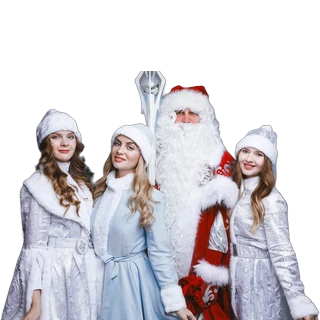
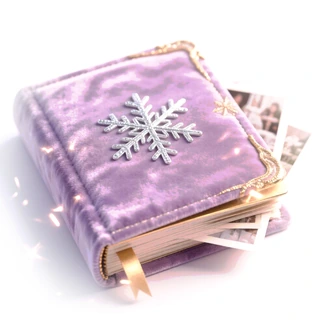
Add files via upload

diff --git a/data/content.js b/data/content.js
@@ -1,2 +1,2 @@
 // Копия content.json — чтобы сайт открывался и без сервера. Админка обновляет её сама.
-window.DM_SEED = {"rev":"20261024b","season":{"from":"25 декабря","to":"2 января","note":"Для постоянных клиентов действуют скидки."},"hero":{"title":"Сибирская служба Деда Мороза","lead":"Подарите себе и своим детям сказку","photo":"img/hero-sneg.jpg?v=2","photo_pos":"","round":"img/sneg-gold.jpg","sticker":"Только наши актёры"},"facts":[{"b":"20 лет","s":"работаем с 2006 года"},{"b":"30 минут","s":"программа с песнями, играми и хороводом"},{"b":"Мы настоящие","s":"безупречные образы, продуманные до мелочей"}],"about":{"title":"Добрая семейная традиция","text":"Год за годом возвращаемся в любимые семьи и становимся частью их новогодней истории.","photo":"img/cut-ded.webp","photo_pos":"","badge":"с 2006 года","pluses":[{"title":"Мы красивые","text":"Молодые и очаровательные Снегурочки, харизматичные и весёлые Дед Морозы. Костюмы сшиты на заказ из дорогих материалов, у Деда Мороза настоящие валенки и волшебный посох, у Снегурочки — белые сапожки."},{"title":"Мы без вредных привычек","text":"Ответственный подход к работе, отличное настроение и энергия, которой хватает на весь праздник."},{"title":"Каждый год новая программа","text":"Душевные беседы, добрые традиции, музыкальные и подвижные игры с реквизитом."},{"title":"Команда с историей","text":"Почти все наши артисты с нами уже более 10 лет (а кто-то и дольше). Один и тот же Дедушка Мороз и Снегурочка приходят к деткам из года в год. Так вера в чудо живёт дольше, а герои становятся по-настоящему родными."},{"title":"Мы не подводим","text":"В назначенный день и время к вам в дверь постучатся сказочные герои."}]},"prices":{"intro":"Поздравление длится 30 минут, по желанию его можно сократить или увеличить. Количество детей не ограничено.","rows":[{"dates":"25, 28 и 29 декабря","price":"4500","slots":[]},{"dates":"26–27 декабря","price":"5000","slots":[]},{"dates":"30 декабря","price":"5000","slots":[]},{"dates":"31 декабря","price":"","slots":[{"time":"до 13:00","price":"5500"},{"time":"с 13:00 до 18:00","price":"6500"},{"time":"с 18:00 до 01:00","price":"7500"}]},{"dates":"1 января","price":"5000","slots":[]},{"dates":"2 января","price":"4500","slots":[]}],"incl_title":"Что входит в поздравление","incl":["Дед Мороз и Снегурочка в нарядных костюмах","30 минут авторской программы по возрасту детей","Песни, танцы, хоровод вокруг ёлки","Игры, загадки, шуточные конкурсы","Стихи для Дедушки и вручение ваших подарков","Внимание и взрослым — не только детям"],"incl_photo":"img/n-1.jpg","incl_pos":"60% 40%","prepay":"Бронирование по предоплате 500 ₽"},"how":{"title":"30 минут настоящей сказки","steps":[{"title":"Время для душевного общения","text":"Дедушка поговорит с ребёнком, обсудит события прошедшего года (Дедушка удивит ребенка тем, что он знает все. Ведь родители заранее готовят для нас рассказ) и похвалит за успехи. Ведь настоящее волшебство начинается с внимания к каждому."},{"title":"Время веселиться!","text":"Музыкальные и подвижные игры, весёлые задания с реквизитом и творческие сюрпризы - скучать не придётся ни детям, ни взрослым."},{"title":"Время талантов","text":"Стихи, песни, танцы и другие маленькие достижения - Дед Мороз с удовольствием посмотрит, чем ребёнок хочет его удивить и порадовать."},{"title":"Письмо из мешка!","text":"Дедушка достанет из мешка письмо, которое ребёнок писал ему, и докажет: послание действительно дошло до самого волшебника!"},{"title":"Подарок от Дедушки","text":"Дед Мороз достанет из мешка желанные подарки, которые приготовили родители, и вручит их маленькому герою праздника."},{"title":"Обещание Деду Морозу","text":"Перед прощанием Дедушка возьмёт обещание весь год хорошо себя вести и слушаться родителей. И, конечно, останется время на памятные фотографии!"}],"tips":[{"title":"Чистота и комфорт","text":"Дедушка снимает галоши с валенок перед входом, а Снегурочка использует на улице защитные чехлы на обувь. Можно дополнительно постелить коврик - мы заботимся о чистоте вашего дома."},{"title":"Не выдавайте секрет!","text":"Дед Мороз приезжает на обычной машине и паркуется у подъезда. Лучше ребёнку не ждать гостей у окна. Мы хотим сохранить сказку!"},{"title":"Дедушка придет впервые?","text":"Расскажите, кто такой Дед Мороз и что будет происходить. Если ребёнок стесняется, первой может зайти Снегурочка, а затем они вместе позовут Дедушку."},{"title":"Не забудьте письмо!","text":"Незаметно положите письмо ребёнка в мешок с подарками. Когда Дедушка достанет его, вера в настоящее чудо станет ещё крепче!"},{"title":"Подарки тоже должны быть сказочными!","text":"Пожалуйста, передавайте подарки в праздничной упаковке, без пакетов маркетплейсов, штрихкодов и ценников. Позаботьтесь, чтобы даже упаковка поддерживала атмосферу новогоднего чуда!"},{"title":"Оплата - только без маленьких зрителей.","text":"Не передавайте деньги Деду Морозу при ребенке, даже если думаете, что никто не видит. Дети замечают больше, чем нам кажется. Оплатить можно заранее, когда передаете подарки или в конце, выйдя провожать за дверь. Не будем разрушать магию встречи."},{"title":"Заранее расскажите нам о прошедшем годе","text":"При бронировании поделитесь успехами ребёнка, его достижениями и тем, за что его стоит похвалить. Ребенок точно удивится, откуда Дедушка все знает!"},{"title":"Участвуйте в сказке вместе","text":"Поддерживайте ребёнка, играйте вместе с ним и помогайте преодолеть стеснение. Ваше участие сделает встречу ещё теплее и радостнее!"}],"tips_title":"Советы родителям: чтобы волшебство удалось"},"heroes":{"title":"Как с картинки","text":"Только наши герои на фотографиях.","photos":[{"src":"img/n-2.jpg","alt":"Снегурочка у голубой ёлки с подарками","pos":"","title":"","text":""},{"src":"img/n-3.jpg","alt":"Снежинка в руках Снегурочки","pos":"","title":"","text":""},{"src":"img/trio.jpg","alt":"Дед Мороз и три Снегурочки","pos":"","title":"Костюмы высокого уровня.","text":"Мы не экономим на впечатлении. Наши костюмы -  это качественные материалы, дорогой внешний вид и внимание к каждой детали."},{"src":"img/sneg-gold.jpg","alt":"Снегурочка у ёлки","pos":"","title":"","text":""},{"src":"img/ded-snow.jpg","alt":"Дед Мороз в снегу","pos":"","title":"Образ Деда Мороза","text":"Богатая вышивка, роскошный мех, нарядные шапки и величественные посохи. Каждая деталь подчёркивает образ настоящего русского Деда Мороза."},{"src":"img/sneg-ball.jpg","alt":"Две Снегурочки с ёлочным шаром","pos":"","title":"Снегурочки из сказки","text":"Молодые, красивые, нежные - наши Снегурочки словно сошли со страниц зимней сказки."},{"src":"img/pair-tree.jpg","alt":"Дед Мороз и Снегурочка у ёлки","pos":"","title":"Классическая красная шуба","text":"Дедушку именно в таком образе знают и ждут дети!"},{"src":"img/sneg-white.jpg","alt":"Снегурочка в белом","pos":"","title":"Образ Снегурочки","text":"Изысканные платья, меховая отделка, красивые детали, которые создают по-настоящему сказочный образ."},{"src":"img/ded-home.jpg","alt":"Дед Мороз","pos":"","title":"Настоящий Дед Мороз","text":"Не юный аниматор в бороде, а взрослый, солидный мужчина с харизмой и добрым взглядом. Многие наши Деды Морозы старше 50 лет."}]},"reviews":{"title":"Нас зовут из года в год","items":[{"text":"Доброе утро дорогие Волшебники!))) Вчера к нашим уже не очень маленьким деткам в шестой раз приходили самые добрые, самые настоящие и самые волшебные Дедушка Мороз и Снегурочка! Спасибо огромное вашей команде за праздник и радость, которые вы дарите и детям и взрослым. Ваши Дедушки Морозы и Снегурочки самые лучшие, самые красивые и веселые! Все были в восторге от вечера! А дети, благодаря вашим стараниям еще долго будут верить и ждать Деда Мороза и Снегурочку в гости! Так что милости просим лет так до 18 точно!)))","author":""},{"text":"Большое спасибо Вам от нашей семьи. Из года в год вы радуете наших детишек и нас ❤ Каждый год разная программа и костюмы 🔥 4 год проводим с Вами ,это уже традиция 🥰 Ох как мы готовимся к вашему приходу, наряды, прически и как тяжело с Вами раставаться на год 🥲 … Ваша подготовка, любовь к детям, а не просто работа. Мы Вас очень любим и ждём через год ❤","author":"Ваши Тимофей и Ульяна"},{"text":"Добрый вечер! Спасибо Вам за чудесное поздравление и прекрасного Деда Мороза со Снегурочкой (Машеньку). Какой костюм у Деда мороза шикарный. Парень мой очень рад 🥳🎄!! С Наступающим Новым годом! Надеемся на новую встречу в Новом году 😊 спасибо и всех благ!!!","author":""},{"text":"Спасибо огромное за поздравление! Дед Мороз и Снегурочка просто супер 🔥 костюмы очень красивые, программа отличная, подход к детям, настроение 👍👍👍 мы очень довольны и рады что выбрали именно Вас!!!","author":""},{"text":"Спасибо огромное за праздник!!! Вы - лучшие! И дети, и родители счастливы! С наступающим Новым годом! Будем ждать через год!","author":""}]},"faq":{"items":[{"q":"Сколько длится поздравление?","a":"Стандартная программа — 30 минут. По вашему желанию её можно сократить или увеличить, длительность оговаривается заранее."},{"q":"Сколько детей может быть на празднике?","a":"Мы не ограничиваем количество гостей. Но нам важно, чтобы каждый ребёнок почувствовал себя участником сказки, успел пообщаться с Дедушкой и проявить себя. Наша программа рассчитана на 30 минут. Чем больше детей - тем меньше времени остается на внимание к каждому."},{"q":"Что, если малыш испугается Деда Мороза?","a":"Артисты всегда найдут слова, чтобы через несколько минут ребёнок заулыбался. А заранее расскажите малышу, кто такой Дед Мороз, где он живёт и как будет одет — тогда он встретит его как старого знакомого."},{"q":"Кто готовит подарки?","a":"Подарки готовите вы. Незаметно передайте их Деду Морозу. Если детей несколько - подпишите имена на обратной стороне подарков."},{"q":"Нужна предоплата?","a":"Бронирование времени осуществляется по предоплате 500р. Остальную сумму вы оплачиваете Дедушке Морозу и Снегурочке в день поздравления."},{"q":"Когда вы приходите?","a":"Каждый день с 25 декабря по 2 января. 31 декабря разбирают первым, поэтому на него лучше договориться заранее."}],"photo":"img/ded-snow.jpg"},"contacts":{"phone_city":"34-64-09","phone_mobile":"8-904-074-64-09","phone_boss":"8-960-990-00-44","boss_name":"Анастасия","whatsapp":"8-904-074-64-09","telegram":"","vk":"dedmoroz55omsk","email":"sibdedmoroz55@gmail.com","office":"пр-кт Комарова, 21/2, офис 13","show_office":false,"max":""}};
+window.DM_SEED = {"rev":"20261024c","season":{"from":"25 декабря","to":"2 января","note":"Для постоянных клиентов действуют скидки."},"hero":{"title":"Сибирская служба Деда Мороза","lead":"Подарите себе и своим детям сказку","photo":"img/hero-sneg.jpg?v=2","photo_pos":"","round":"img/sneg-gold.jpg","sticker":"Только наши актёры"},"facts":[{"b":"20 лет","s":"работаем с 2006 года"},{"b":"30 минут","s":"программа с песнями, играми и хороводом"},{"b":"Мы настоящие","s":"безупречные образы, продуманные до мелочей"}],"about":{"title":"Добрая семейная традиция","text":"Год за годом возвращаемся в любимые семьи и становимся частью их новогодней истории.","photo":"img/cut-ded.webp","photo_pos":"","badge":"с 2006 года","pluses":[{"title":"Мы красивые","text":"Молодые и очаровательные Снегурочки, харизматичные и весёлые Дед Морозы. Костюмы сшиты на заказ из дорогих материалов, у Деда Мороза настоящие валенки и волшебный посох, у Снегурочки — белые сапожки."},{"title":"Мы без вредных привычек","text":"Ответственный подход к работе, отличное настроение и энергия, которой хватает на весь праздник."},{"title":"Каждый год новая программа","text":"Душевные беседы, добрые традиции, музыкальные и подвижные игры с реквизитом."},{"title":"Команда с историей","text":"Почти все наши артисты с нами уже более 10 лет (а кто-то и дольше). Один и тот же Дедушка Мороз и Снегурочка приходят к деткам из года в год. Так вера в чудо живёт дольше, а герои становятся по-настоящему родными."},{"title":"Мы не подводим","text":"В назначенный день и время к вам в дверь постучатся сказочные герои."}]},"prices":{"intro":"Поздравление длится 30 минут, по желанию его можно сократить или увеличить. Количество детей не ограничено.","rows":[{"dates":"25, 28 и 29 декабря","price":"4500","slots":[]},{"dates":"26–27 декабря","price":"5000","slots":[]},{"dates":"30 декабря","price":"5000","slots":[]},{"dates":"31 декабря","price":"","slots":[{"time":"до 13:00","price":"5500"},{"time":"с 13:00 до 18:00","price":"6500"},{"time":"с 18:00 до 01:00","price":"7500"}]},{"dates":"1 января","price":"5000","slots":[]},{"dates":"2 января","price":"4500","slots":[]}],"incl_title":"Что входит в поздравление","incl":["Дед Мороз и Снегурочка в нарядных костюмах","30 минут авторской программы по возрасту детей","Песни, танцы, хоровод вокруг ёлки","Игры, загадки, шуточные конкурсы","Стихи для Дедушки и вручение ваших подарков","Внимание и взрослым — не только детям"],"incl_photo":"img/n-1.jpg","incl_pos":"60% 40%","prepay":"Бронирование по предоплате 500 ₽"},"how":{"title":"30 минут настоящей сказки","steps":[{"title":"Время для душевного общения","text":"Дедушка поговорит с ребёнком, обсудит события прошедшего года (Дедушка удивит ребёнка тем, что он знает всё. Ведь родители заранее готовят для нас рассказ) и похвалит за успехи. Ведь настоящее волшебство начинается с внимания к каждому."},{"title":"Время веселиться!","text":"Музыкальные и подвижные игры, весёлые задания с реквизитом и творческие сюрпризы — скучать не придётся ни детям, ни взрослым."},{"title":"Время талантов","text":"Стихи, песни, танцы и другие маленькие достижения — Дед Мороз с удовольствием посмотрит, чем ребёнок хочет его удивить и порадовать."},{"title":"Письмо из мешка!","text":"Дедушка достанет из мешка письмо, которое ребёнок писал ему, и докажет: послание действительно дошло до самого волшебника!"},{"title":"Подарок от Дедушки","text":"Дед Мороз достанет из мешка желанные подарки, которые приготовили родители, и вручит их маленькому герою праздника."},{"title":"Обещание Деду Морозу","text":"Перед прощанием Дедушка возьмёт обещание весь год хорошо себя вести и слушаться родителей. И, конечно, останется время на памятные фотографии!"}],"tips":[{"title":"Чистота и комфорт","text":"Дедушка снимает галоши с валенок перед входом, а Снегурочка использует на улице защитные чехлы на обувь. Можно дополнительно постелить коврик — мы заботимся о чистоте вашего дома."},{"title":"Не выдавайте секрет!","text":"Дед Мороз приезжает на обычной машине и паркуется у подъезда. Лучше ребёнку не ждать гостей у окна. Мы хотим сохранить сказку!"},{"title":"Дедушка придёт впервые?","text":"Расскажите, кто такой Дед Мороз и что будет происходить. Если ребёнок стесняется, первой может зайти Снегурочка, а затем они вместе позовут Дедушку."},{"title":"Не забудьте письмо!","text":"Незаметно положите письмо ребёнка в мешок с подарками. Когда Дедушка достанет его, вера в настоящее чудо станет ещё крепче!"},{"title":"Подарки тоже должны быть сказочными!","text":"Пожалуйста, передавайте подарки в праздничной упаковке, без пакетов маркетплейсов, штрихкодов и ценников. Позаботьтесь, чтобы даже упаковка поддерживала атмосферу новогоднего чуда!"},{"title":"Оплата — только без маленьких зрителей","text":"Не передавайте деньги Деду Морозу при ребёнке, даже если думаете, что никто не видит. Дети замечают больше, чем нам кажется. Оплатить можно заранее, когда передаёте подарки или в конце, выйдя провожать за дверь. Не будем разрушать магию встречи."},{"title":"Заранее расскажите нам о прошедшем годе","text":"При бронировании поделитесь успехами ребёнка, его достижениями и тем, за что его стоит похвалить. Ребёнок точно удивится, откуда Дедушка всё знает!"},{"title":"Участвуйте в сказке вместе","text":"Поддерживайте ребёнка, играйте вместе с ним и помогайте преодолеть стеснение. Ваше участие сделает встречу ещё теплее и радостнее!"}],"tips_title":"Советы родителям: чтобы волшебство удалось"},"heroes":{"title":"Как с картинки","text":"Только наши герои на фотографиях.","photos":[{"src":"img/n-2.jpg","alt":"Снегурочка у голубой ёлки с подарками","pos":"","title":"","text":""},{"src":"img/n-3.jpg","alt":"Снежинка в руках Снегурочки","pos":"","title":"","text":""},{"src":"img/trio.jpg","alt":"Дед Мороз и три Снегурочки","pos":"","title":"Костюмы высокого уровня","text":"Мы не экономим на впечатлении. Наши костюмы — это качественные материалы, дорогой внешний вид и внимание к каждой детали."},{"src":"img/sneg-gold.jpg","alt":"Снегурочка у ёлки","pos":"","title":"","text":""},{"src":"img/ded-snow.jpg","alt":"Дед Мороз в снегу","pos":"","title":"Образ Деда Мороза","text":"Богатая вышивка, роскошный мех, нарядные шапки и величественные посохи. Каждая деталь подчёркивает образ настоящего русского Деда Мороза."},{"src":"img/sneg-ball.jpg","alt":"Две Снегурочки с ёлочным шаром","pos":"","title":"Снегурочки из сказки","text":"Молодые, красивые, нежные — наши Снегурочки словно сошли со страниц зимней сказки."},{"src":"img/pair-tree.jpg","alt":"Дед Мороз и Снегурочка у ёлки","pos":"","title":"Классическая красная шуба","text":"Дедушку именно в таком образе знают и ждут дети!"},{"src":"img/sneg-white.jpg","alt":"Снегурочка в белом","pos":"","title":"Образ Снегурочки","text":"Изысканные платья, меховая отделка, красивые детали, которые создают по-настоящему сказочный образ."},{"src":"img/ded-home.jpg","alt":"Дед Мороз","pos":"","title":"Настоящий Дед Мороз","text":"Не юный аниматор в бороде, а взрослый, солидный мужчина с харизмой и добрым взглядом. Многие наши Деды Морозы старше 50 лет."}]},"reviews":{"title":"Нас зовут из года в год","items":[{"text":"Доброе утро дорогие Волшебники!))) Вчера к нашим уже не очень маленьким деткам в шестой раз приходили самые добрые, самые настоящие и самые волшебные Дедушка Мороз и Снегурочка! Спасибо огромное вашей команде за праздник и радость, которые вы дарите и детям и взрослым. Ваши Дедушки Морозы и Снегурочки самые лучшие, самые красивые и веселые! Все были в восторге от вечера! А дети, благодаря вашим стараниям еще долго будут верить и ждать Деда Мороза и Снегурочку в гости! Так что милости просим лет так до 18 точно!)))","author":""},{"text":"Большое спасибо Вам от нашей семьи. Из года в год вы радуете наших детишек и нас ❤ Каждый год разная программа и костюмы 🔥 4 год проводим с Вами ,это уже традиция 🥰 Ох как мы готовимся к вашему приходу, наряды, прически и как тяжело с Вами раставаться на год 🥲 … Ваша подготовка, любовь к детям, а не просто работа. Мы Вас очень любим и ждём через год ❤","author":"Ваши Тимофей и Ульяна"},{"text":"Добрый вечер! Спасибо Вам за чудесное поздравление и прекрасного Деда Мороза со Снегурочкой (Машеньку). Какой костюм у Деда мороза шикарный. Парень мой очень рад 🥳🎄!! С Наступающим Новым годом! Надеемся на новую встречу в Новом году 😊 спасибо и всех благ!!!","author":""},{"text":"Спасибо огромное за поздравление! Дед Мороз и Снегурочка просто супер 🔥 костюмы очень красивые, программа отличная, подход к детям, настроение 👍👍👍 мы очень довольны и рады что выбрали именно Вас!!!","author":""},{"text":"Спасибо огромное за праздник!!! Вы - лучшие! И дети, и родители счастливы! С наступающим Новым годом! Будем ждать через год!","author":""}]},"faq":{"items":[{"q":"Сколько длится поздравление?","a":"Стандартная программа — 30 минут. По вашему желанию её можно сократить или увеличить, длительность оговаривается заранее."},{"q":"Сколько детей может быть на празднике?","a":"Мы не ограничиваем количество гостей. Но нам важно, чтобы каждый ребёнок почувствовал себя участником сказки, успел пообщаться с Дедушкой и проявить себя. Наша программа рассчитана на 30 минут. Чем больше детей — тем меньше времени остаётся на внимание к каждому."},{"q":"Что, если малыш испугается Деда Мороза?","a":"Артисты всегда найдут слова, чтобы через несколько минут ребёнок заулыбался. А заранее расскажите малышу, кто такой Дед Мороз, где он живёт и как будет одет — тогда он встретит его как старого знакомого."},{"q":"Кто готовит подарки?","a":"Подарки готовите вы. Незаметно передайте их Деду Морозу. Если детей несколько — подпишите имена на обратной стороне подарков."},{"q":"Нужна предоплата?","a":"Бронирование времени осуществляется по предоплате 500 ₽. Остальную сумму вы оплачиваете Дедушке Морозу и Снегурочке в день поздравления."},{"q":"Когда вы приходите?","a":"Каждый день с 25 декабря по 2 января. 31 декабря разбирают первым, поэтому на него лучше договориться заранее."}],"photo":"img/ded-snow.jpg"},"contacts":{"phone_city":"34-64-09","phone_mobile":"8-904-074-64-09","phone_boss":"8-960-990-00-44","boss_name":"Анастасия","whatsapp":"8-904-074-64-09","telegram":"","vk":"dedmoroz55omsk","email":"sibdedmoroz55@gmail.com","office":"пр-кт Комарова, 21/2, офис 13","show_office":false,"max":""}};

diff --git a/index.html b/index.html
@@ -11,8 +11,8 @@
 <meta property="og:url" content="https://danielsque18.github.io/dedmoroz/">
 <meta property="og:type" content="website">
 <meta name="theme-color" content="#1c0b3f">
-<link rel="stylesheet" href="fonts/fonts.css?v=20261024b">
-<link rel="stylesheet" href="style.css?v=20261024b">
+<link rel="stylesheet" href="fonts/fonts.css?v=20261024g">
+<link rel="stylesheet" href="style.css?v=20261024g">
 <link rel="icon" href="img/logo.png" type="image/png">
 <script type="application/ld+json">{"@context":"https://schema.org","@type":"EntertainmentBusiness","name":"Сибирская служба Деда Мороза","description":"Дед Мороз и Снегурочка на дом в Омске, с 2006 года","address":{"@type":"PostalAddress","addressLocality":"Омск","streetAddress":"пр-кт Комарова, 21/2, офис 13"},"telephone":["+7 3812 34-64-09","+7 904 074-64-09"],"email":"sibdedmoroz55@gmail.com","priceRange":"4500–7500 ₽","sameAs":["https://vk.com/dedmoroz55omsk"]}</script>
 </head>
@@ -187,9 +187,9 @@
     <div>
       <h2>30 минут настоящей <em>сказки</em></h2>
       <ol class="steps">
-        <li><b>Время для душевного общения</b><p>Дедушка поговорит с ребёнком, обсудит события прошедшего года (Дедушка удивит ребенка тем, что он знает все. Ведь родители заранее готовят для нас рассказ) и похвалит за успехи. Ведь настоящее волшебство начинается с внимания к каждому.</p></li>
-        <li><b>Время веселиться!</b><p>Музыкальные и подвижные игры, весёлые задания с реквизитом и творческие сюрпризы - скучать не придётся ни детям, ни взрослым.</p></li>
-        <li><b>Время талантов</b><p>Стихи, песни, танцы и другие маленькие достижения - Дед Мороз с удовольствием посмотрит, чем ребёнок хочет его удивить и порадовать.</p></li>
+        <li><b>Время для душевного общения</b><p>Дедушка поговорит с ребёнком, обсудит события прошедшего года (Дедушка удивит ребёнка тем, что он знает всё. Ведь родители заранее готовят для нас рассказ) и похвалит за успехи. Ведь настоящее волшебство начинается с внимания к каждому.</p></li>
+        <li><b>Время веселиться!</b><p>Музыкальные и подвижные игры, весёлые задания с реквизитом и творческие сюрпризы — скучать не придётся ни детям, ни взрослым.</p></li>
+        <li><b>Время талантов</b><p>Стихи, песни, танцы и другие маленькие достижения — Дед Мороз с удовольствием посмотрит, чем ребёнок хочет его удивить и порадовать.</p></li>
         <li><b>Письмо из мешка!</b><p>Дедушка достанет из мешка письмо, которое ребёнок писал ему, и докажет: послание действительно дошло до самого волшебника!</p></li>
         <li><b>Подарок от Дедушки</b><p>Дед Мороз достанет из мешка желанные подарки, которые приготовили родители, и вручит их маленькому герою праздника.</p></li>
         <li><b>Обещание Деду Морозу</b><p>Перед прощанием Дедушка возьмёт обещание весь год хорошо себя вести и слушаться родителей. И, конечно, останется время на памятные фотографии!</p></li>
@@ -197,13 +197,13 @@
       <details class="tips">
         <summary>Советы родителям: чтобы волшебство удалось</summary>
         <ol>
-          <li><b>Чистота и комфорт</b> Дедушка снимает галоши с валенок перед входом, а Снегурочка использует на улице защитные чехлы на обувь. Можно дополнительно постелить коврик - мы заботимся о чистоте вашего дома.</li>
+          <li><b>Чистота и комфорт</b> Дедушка снимает галоши с валенок перед входом, а Снегурочка использует на улице защитные чехлы на обувь. Можно дополнительно постелить коврик — мы заботимся о чистоте вашего дома.</li>
           <li><b>Не выдавайте секрет!</b> Дед Мороз приезжает на обычной машине и паркуется у подъезда. Лучше ребёнку не ждать гостей у окна. Мы хотим сохранить сказку!</li>
-          <li><b>Дедушка придет впервые?</b> Расскажите, кто такой Дед Мороз и что будет происходить. Если ребёнок стесняется, первой может зайти Снегурочка, а затем они вместе позовут Дедушку.</li>
+          <li><b>Дедушка придёт впервые?</b> Расскажите, кто такой Дед Мороз и что будет происходить. Если ребёнок стесняется, первой может зайти Снегурочка, а затем они вместе позовут Дедушку.</li>
           <li><b>Не забудьте письмо!</b> Незаметно положите письмо ребёнка в мешок с подарками. Когда Дедушка достанет его, вера в настоящее чудо станет ещё крепче!</li>
           <li><b>Подарки тоже должны быть сказочными!</b> Пожалуйста, передавайте подарки в праздничной упаковке, без пакетов маркетплейсов, штрихкодов и ценников. Позаботьтесь, чтобы даже упаковка поддерживала атмосферу новогоднего чуда!</li>
-          <li><b>Оплата - только без маленьких зрителей.</b> Не передавайте деньги Деду Морозу при ребенке, даже если думаете, что никто не видит. Дети замечают больше, чем нам кажется. Оплатить можно заранее, когда передаете подарки или в конце, выйдя провожать за дверь. Не будем разрушать магию встречи.</li>
-          <li><b>Заранее расскажите нам о прошедшем годе</b> При бронировании поделитесь успехами ребёнка, его достижениями и тем, за что его стоит похвалить. Ребенок точно удивится, откуда Дедушка все знает!</li>
+          <li><b>Оплата — только без маленьких зрителей</b> Не передавайте деньги Деду Морозу при ребёнке, даже если думаете, что никто не видит. Дети замечают больше, чем нам кажется. Оплатить можно заранее, когда передаёте подарки или в конце, выйдя провожать за дверь. Не будем разрушать магию встречи.</li>
+          <li><b>Заранее расскажите нам о прошедшем годе</b> При бронировании поделитесь успехами ребёнка, его достижениями и тем, за что его стоит похвалить. Ребёнок точно удивится, откуда Дедушка всё знает!</li>
           <li><b>Участвуйте в сказке вместе</b> Поддерживайте ребёнка, играйте вместе с ним и помогайте преодолеть стеснение. Ваше участие сделает встречу ещё теплее и радостнее!</li>
         </ol>
       </details>
@@ -244,10 +244,10 @@
     </div>
     <div class="faq">
       <details open><summary>Сколько длится поздравление?</summary><p>Стандартная программа — 30 минут. По вашему желанию её можно сократить или увеличить, длительность оговаривается заранее.</p></details>
-      <details><summary>Сколько детей может быть на празднике?</summary><p>Мы не ограничиваем количество гостей. Но нам важно, чтобы каждый ребёнок почувствовал себя участником сказки, успел пообщаться с Дедушкой и проявить себя. Наша программа рассчитана на 30 минут. Чем больше детей - тем меньше времени остается на внимание к каждому.</p></details>
+      <details><summary>Сколько детей может быть на празднике?</summary><p>Мы не ограничиваем количество гостей. Но нам важно, чтобы каждый ребёнок почувствовал себя участником сказки, успел пообщаться с Дедушкой и проявить себя. Наша программа рассчитана на 30 минут. Чем больше детей — тем меньше времени остаётся на внимание к каждому.</p></details>
       <details><summary>Что, если малыш испугается Деда Мороза?</summary><p>Артисты всегда найдут слова, чтобы через несколько минут ребёнок заулыбался. А заранее расскажите малышу, кто такой Дед Мороз, где он живёт и как будет одет — тогда он встретит его как старого знакомого.</p></details>
-      <details><summary>Кто готовит подарки?</summary><p>Подарки готовите вы. Незаметно передайте их Деду Морозу. Если детей несколько - подпишите имена на обратной стороне подарков.</p></details>
-      <details><summary>Нужна предоплата?</summary><p>Бронирование времени осуществляется по предоплате 500р. Остальную сумму вы оплачиваете Дедушке Морозу и Снегурочке в день поздравления.</p></details>
+      <details><summary>Кто готовит подарки?</summary><p>Подарки готовите вы. Незаметно передайте их Деду Морозу. Если детей несколько — подпишите имена на обратной стороне подарков.</p></details>
+      <details><summary>Нужна предоплата?</summary><p>Бронирование времени осуществляется по предоплате 500 ₽. Остальную сумму вы оплачиваете Дедушке Морозу и Снегурочке в день поздравления.</p></details>
       <details><summary>Когда вы приходите?</summary><p>Каждый день с 25 декабря по 2 января. 31 декабря разбирают первым, поэтому на него лучше договориться заранее.</p></details>
     </div>
   </div>
@@ -307,8 +307,8 @@
   <a href="https://wa.me/79040746409" target="_blank" rel="noopener" class="fab-wa"><svg><use href="#i-wa"/></svg>WhatsApp</a>
 </div>
 
-<script src="data/content.js?v=20261024b"></script>
-<script src="render.js?v=20261024b"></script>
-<script src="script.js?v=20261024b"></script>
+<script src="data/content.js?v=20261024g"></script>
+<script src="render.js?v=20261024g"></script>
+<script src="script.js?v=20261024g"></script>
 </body>
 </html>

diff --git a/style.css b/style.css
@@ -776,3 +776,14 @@ h1 em,h2 em,.panel h2 em,.tb h2 em,.contacts h2 em{color:inherit!important;-webk
 .prepay svg{width:18px;height:18px}
 .tips li b{color:var(--ink)}
 @media (max-width:700px){.car-desc{font-size:15px;padding:0 4px}}
+
+/* 24.10 — Настя: главное фото снова на весь экран, как в первый раз, но лицо не режем по подбородку.
+   Кокошник начинается на 4% высоты кадра, подбородок — около 52%: держим кадр у верхнего края */
+@media (min-width:901px){
+  .hero-photo{left:0!important;width:100%!important;-webkit-mask-image:none!important;mask-image:none!important}
+  .hero-photo>img{object-position:64% 8%!important}
+  .hero-photo::after{background:linear-gradient(90deg,rgba(20,7,49,.92) 0%,rgba(20,7,49,.78) 26%,rgba(20,7,49,.35) 46%,rgba(20,7,49,0) 60%),linear-gradient(0deg,rgba(20,7,49,.9) 0%,rgba(20,7,49,0) 26%),linear-gradient(180deg,rgba(20,7,49,.45) 0%,rgba(20,7,49,0) 18%)!important}
+}
+/* широкие мониторы: первый экран выше, чтобы лицо не обрезалось; узкие ноутбуки: текст уже, чтобы не заходил на лицо */
+@media (min-width:901px){.hero{min-height:min(calc(100vh - 90px),max(780px,40vw))}.hero-grid{min-height:min(calc(100vh - 120px),max(720px,38vw))!important}}
+@media (min-width:901px) and (max-width:1200px){.hero-in{max-width:500px!important}.hero h1{font-size:44px}.quick-prices{max-width:470px}}

diff --git a/render.js b/render.js
@@ -58,7 +58,7 @@
 
   // картинка из нейросети для карточки (img/ai/<имя>-<номер>.webp); пока файла нет — остаётся иконка
   function ai(name, i) {
-    return '<img class="ai" src="img/ai/' + name + '-' + (i + 1) + '.webp?v=2" alt="" onload="this.parentNode.classList.add(\'ai-on\')" onerror="this.remove()">';
+    return '<img class="ai" src="img/ai/' + name + '-' + (i + 1) + '.webp?v=4" alt="" onload="this.parentNode.classList.add(\'ai-on\')" onerror="this.remove()">';
   }
 
   // последнее слово заголовка — цветом, как на референсе
